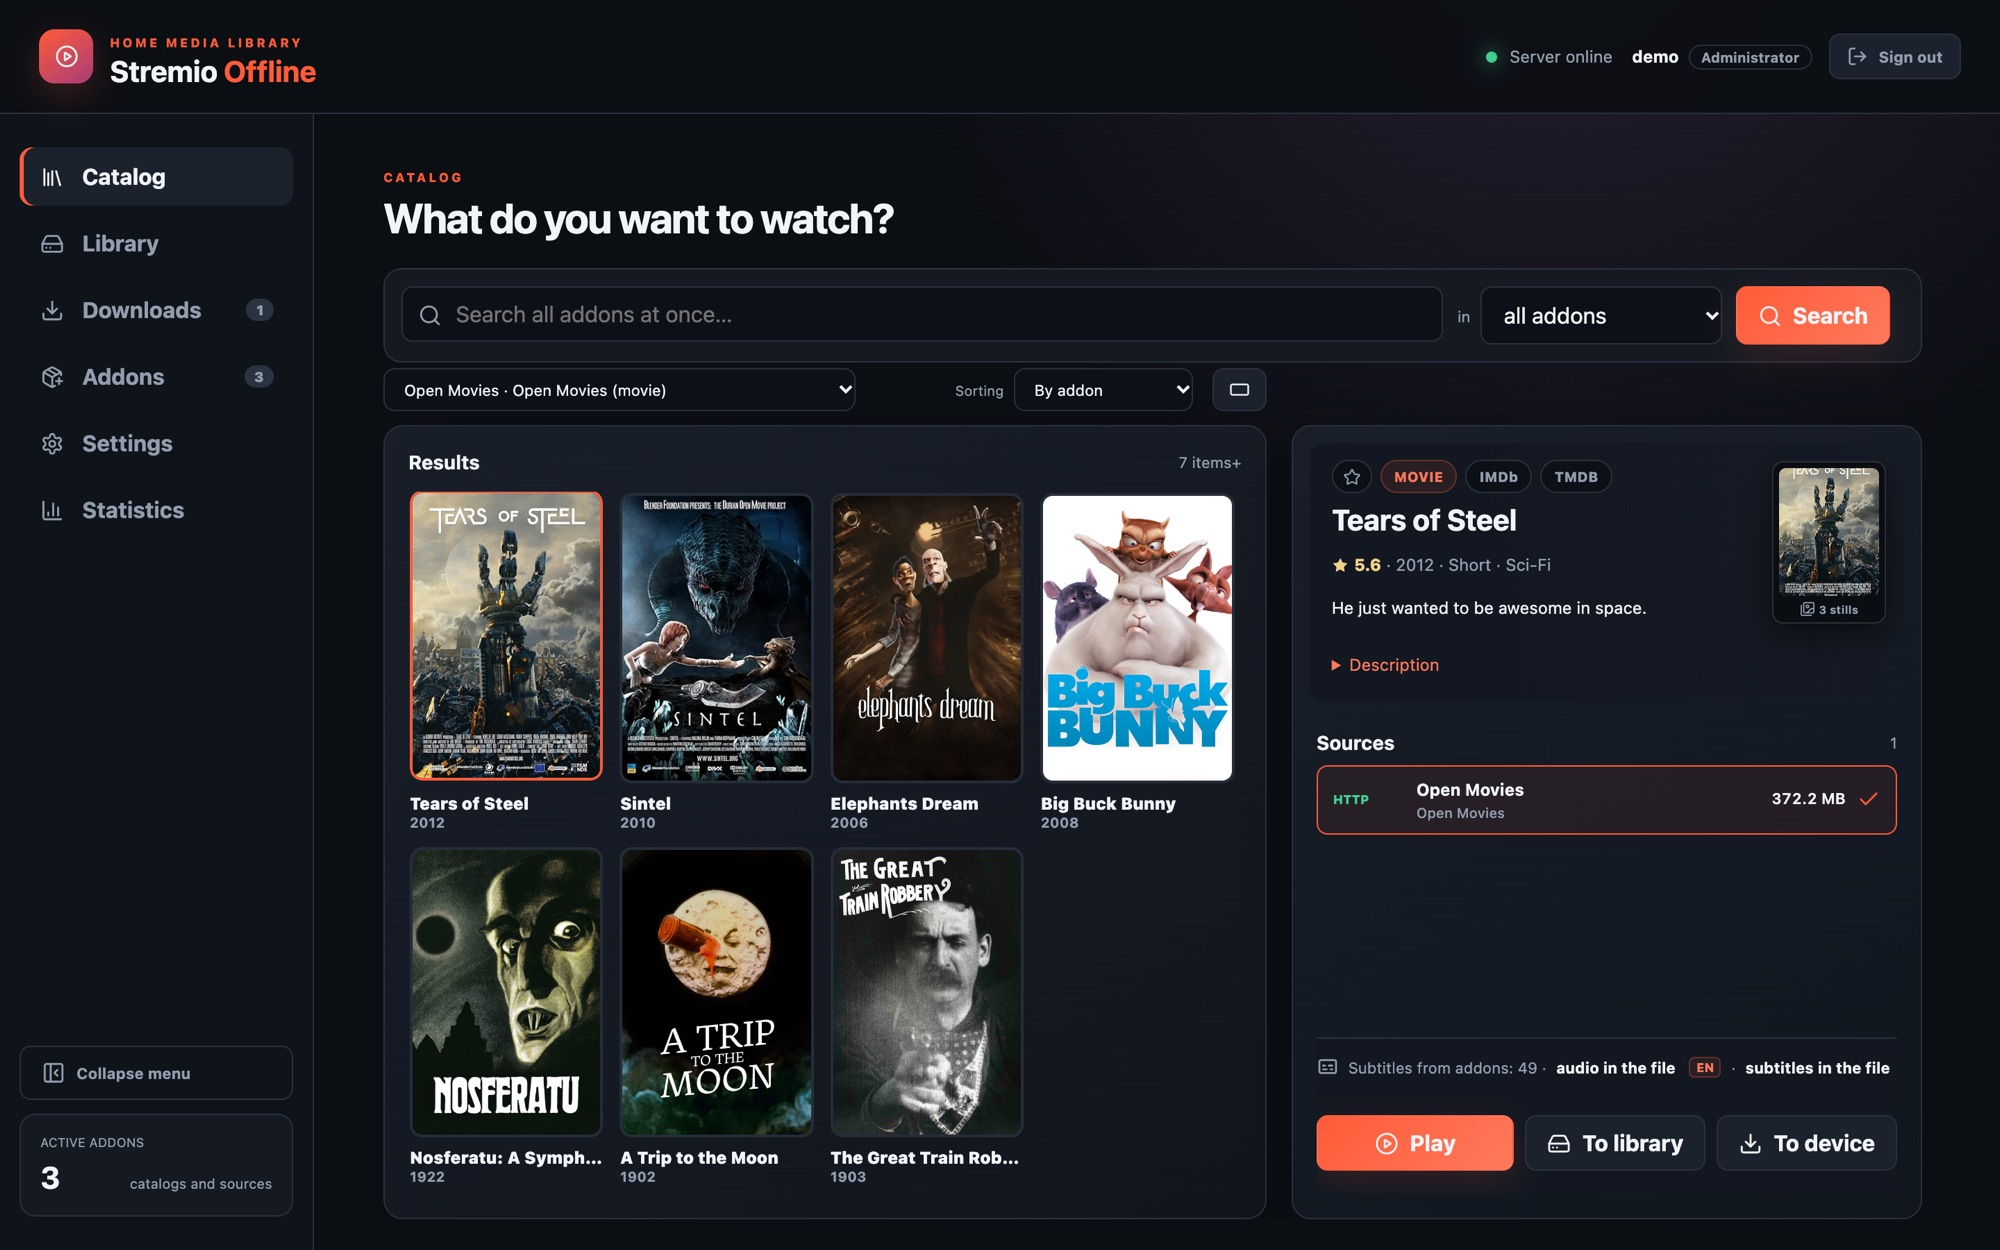
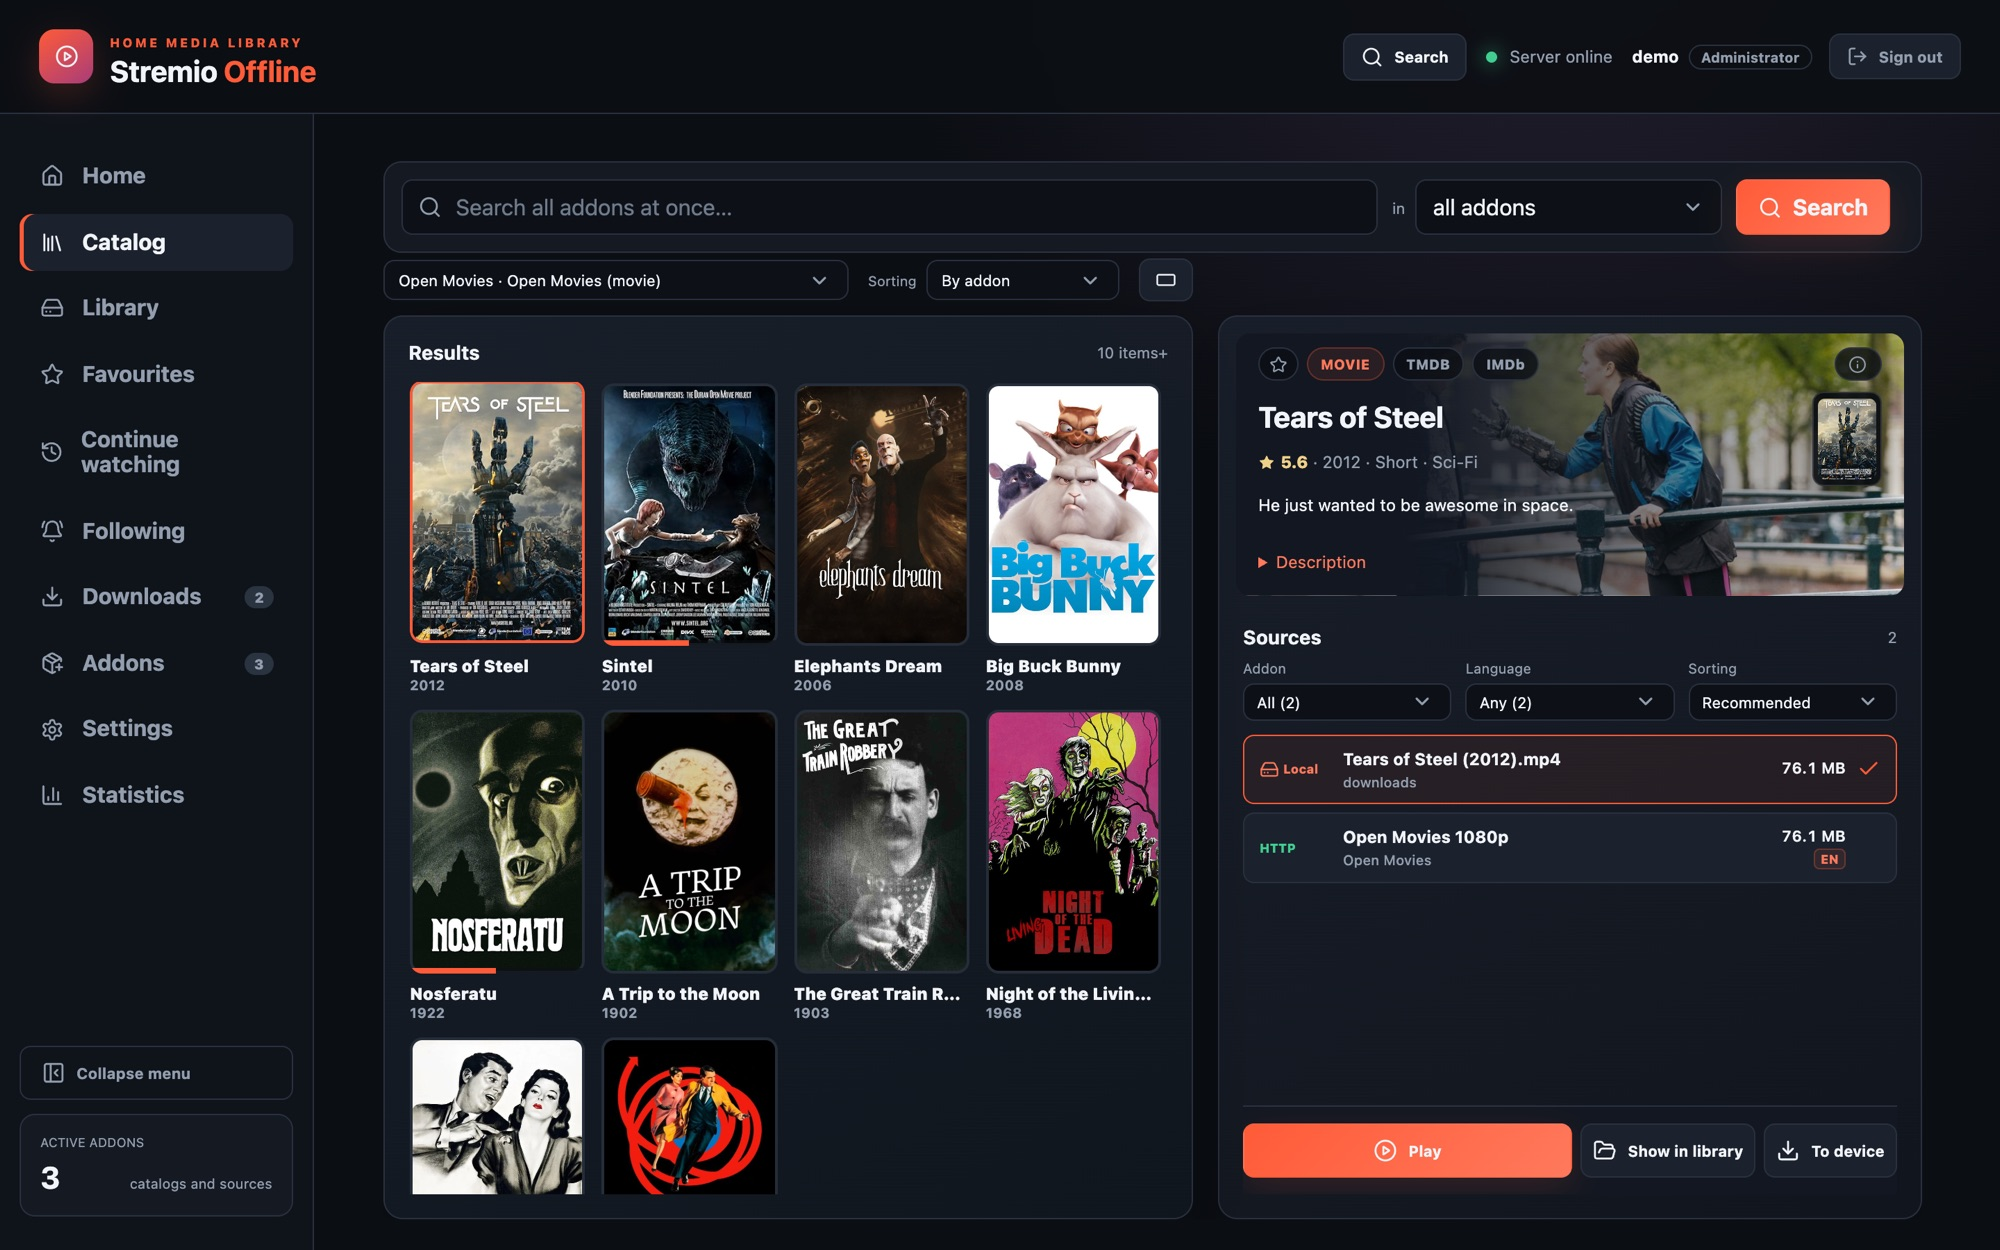
Refresh the README and download docs, and retake the screenshots
The README now names Docker Hub beside GHCR, the Android TV app, the
personal Home page, Search everywhere, download rules, following and the
statistics. docs/downloads.md describes download rules instead of the
season dialog they replaced, and the Docker Hub overview lists the same
features. The screenshots are retaken from a clean 0.5.201 instance in
English with Blender open movies (CC BY), Pioneer One (CC BY-SA) and
public-domain films; Home and the follow dialog are new.

diff --git a/README.md b/README.md
@@ -2,22 +2,30 @@
 
 [![CI](https://github.com/NickRabit/stremio-offline/actions/workflows/ci.yml/badge.svg)](https://github.com/NickRabit/stremio-offline/actions/workflows/ci.yml)
 [![License: MIT](https://img.shields.io/badge/license-MIT-blue.svg)](LICENSE)
-[![Image](https://img.shields.io/badge/ghcr.io-stremio--offline-2496ed?logo=docker&logoColor=white)](https://github.com/NickRabit/stremio-offline/pkgs/container/stremio-offline)
+[![Docker Hub](https://img.shields.io/badge/docker%20hub-nickrabit%2Fstremio--offline-2496ed?logo=docker&logoColor=white)](https://hub.docker.com/r/nickrabit/stremio-offline)
+[![GHCR](https://img.shields.io/badge/ghcr.io-stremio--offline-2496ed?logo=github&logoColor=white)](https://github.com/NickRabit/stremio-offline/pkgs/container/stremio-offline)
 
 Self-hosted web client for standard [Stremio](https://www.stremio.com/) addons.
 It reads catalog and stream manifests, aggregates streams and subtitles, plays
 HTTP sources through a compatible HLS layer, and saves direct streams into a
 persistent download queue and a local library.
 
-It runs in four ways:
+The server runs in four ways:
 
 - **Docker**, the primary target — a host that is always on, a Synology NAS in
-  particular — used from a browser on any device on the home network.
+  particular — used from a browser on any device on the home network. The image
+  is on [Docker Hub](https://hub.docker.com/r/nickrabit/stremio-offline) and
+  [GHCR](https://github.com/NickRabit/stremio-offline/pkgs/container/stremio-offline)
+  for amd64 and arm64.
 - **A macOS app** for Apple Silicon, which runs the server on the Mac or opens
   one elsewhere, such as the NAS.
 - **A Windows app** for Windows 10 and 11 (x64), which does the same.
 - **A Linux app** for x64 PCs with glibc 2.35 or newer, distributed as a
   `.deb` and an AppImage, with the same local and remote server modes.
+
+On a television, **an Android TV app** connects to any of them and is driven
+with the remote. Phones and tablets use the browser, which can add the app to
+the Home Screen.
 
 > Unofficial. Not affiliated with Stremio or Smart Code Ltd.
 > The app provides, hosts and searches no content: everything it shows comes
@@ -28,7 +36,13 @@ It runs in four ways:
 
 ## What it does
 
+- **A Home page of your own**: continue watching, new episodes of what you
+  follow, your libraries and rows from addon catalogs. Each account chooses
+  which rows show and in what order.
 - **Catalogs and metadata** from any standard addon manifest, Cinemeta included.
+- **Search everywhere**: one search across addon catalogs, local libraries and
+  Jellyfin or Emby servers, narrowed to films or series, in the browser and on
+  the TV.
 - **Playback that costs what it has to.** Direct play when the browser can
   handle the file, remux when only the container is wrong, a real transcode only
   as a last resort — in hardware when there is some: Intel QuickSync on a NAS,
@@ -40,6 +54,14 @@ It runs in four ways:
   Range, and pauses itself when the disk fills up. Each addon has a rule for
   where its files go, and a single download can be sent to another library or
   folder.
+- **Download rules** for seasons, whole shows and follows: Balanced, Best
+  quality, Smaller files or My language only, which administrators can adjust
+  or copy. The source is chosen when an episode's turn comes, by resolution,
+  size, audio and subtitle language.
+- **Following series and films**: new episodes appear in the Library and on a
+  calendar you can subscribe to, and can download automatically — new
+  releases only, from a chosen episode, or a few episodes ahead of where you
+  are watching.
 - **Saving to a device**: a file goes straight to the phone or laptop you are
   using, through the server, and **Downloads** shows the transfer while it runs.
 - **A local library** of what you downloaded, with artwork, continue watching,
@@ -58,8 +80,12 @@ It runs in four ways:
 - **Accounts, created on first run.** No default password, no anonymous access.
   An administrator adds one per person and decides which libraries and addons
   each of them sees.
-- **Diagnostics in the UI** — grouped errors, a filterable log, and what
-  playback actually failed on.
+- **An Android TV app** for the same server: Home, Catalog, Library, Search
+  everywhere, playback with audio and subtitle choice, and season downloads
+  by download rules, all with the remote.
+- **Statistics and diagnostics** for administrators — traffic per day, what is
+  playing now, recent activity per user, grouped errors, a filterable log, and
+  what playback actually failed on.
 
 Personalized addon URLs that already resolve through a debrid service work.
 A raw torrent needs a Real-Debrid API token in Settings; the app never runs a
@@ -67,19 +93,24 @@ torrent engine. See [Addons and downloads](docs/downloads.md#real-debrid-and-oth
 
 ## Screenshots
 
-| Library | Download queue |
+| Home | Library |
 | --- | --- |
-| ![Downloaded films in the library, with posters and descriptions](docs/images/library.jpg) | ![One film downloading, another waiting in the queue](docs/images/downloads.jpg) |
+| ![Home with continue watching, a row from the library and an addon catalog](docs/images/home.jpg) | ![Downloaded films in the library, with posters and descriptions](docs/images/library.jpg) |
 
-![The player with subtitles from an addon](docs/images/player.jpg)
+| Following with automatic downloads | Download queue |
+| --- | --- |
+| ![Following a series: start a few episodes ahead and pick download rules](docs/images/follow.jpg) | ![One film downloading, another waiting in the queue](docs/images/downloads.jpg) |
+
+![The player with subtitles](docs/images/player.jpg)
 
 <p>
-  <img src="docs/images/mobile-catalog.jpg" alt="The catalog on a phone" width="260">
+  <img src="docs/images/mobile-home.jpg" alt="Home on a phone" width="260">
   <img src="docs/images/mobile-library.jpg" alt="The library on a phone" width="260">
 </p>
 
-The films shown are Blender Foundation open movies (CC BY), served by a small
-local test addon, and public-domain classics. The app ships with no content.
+The films and the series shown are Blender Foundation open movies (CC BY),
+*Pioneer One* (CC BY-SA) and public-domain classics, served by a small local
+test addon from the Internet Archive. The app ships with no content.
 
 ## Quick start
 
@@ -104,6 +135,12 @@ To run a prebuilt image instead of building locally:
 docker compose -f compose.pull.yml pull
 docker compose -f compose.pull.yml up -d
 ```
+
+The same image is published as
+[`nickrabit/stremio-offline`](https://hub.docker.com/r/nickrabit/stremio-offline)
+on Docker Hub, whose page has a self-contained Compose file for a fresh
+directory. Both registries carry `latest`, every release version and every
+commit.
 
 ### On a Synology NAS
 
@@ -181,7 +218,7 @@ on demand, so a catalogue the provider adds later still shows up. See
 | [Phones and tablets](docs/mobile.md) | iPhone, iPad and Android, Home Screen setup, server access |
 | [Playback](docs/playback.md) | Direct play vs. remux vs. transcode, seeking, tracks, subtitles |
 | [Trailers](docs/trailers.md) | Where the trailer comes from, and how secure mode plays it |
-| [Addons and downloads](docs/downloads.md) | Debrid addons, the queue, save rules, saving to a device, config backup |
+| [Addons and downloads](docs/downloads.md) | Debrid addons, the queue, download rules, following series and films, save rules, saving to a device, config backup |
 | [Backing up and restoring](docs/backup.md) | What is in the data folder, what to copy, how to restore |
 | [Libraries](docs/libraries.md) | Several roots, types, artwork per library, splitting the download folder |
 | [Library identification](docs/library-metadata.md) | How folders become titles, the scan, suggestions and Identify |
@@ -193,7 +230,7 @@ on demand, so a catalogue the provider adds later still shows up. See
 | [Installing the Windows app](docs/install-windows.md) | SmartScreen, the notification area, firewall, updating and removing it |
 | [Installing the Linux app](docs/install-linux.md) | .deb or AppImage, VA-API/NVENC or the system's FFmpeg, firewall, updating and removing it |
 | [Installing the Android TV app](docs/install-android-tv.md) | The APK, Obtainium updates, the Downloader app, adb, updating over an older install |
-| [Building and releasing](docs/building.md) | Local builds, GHCR, version tags, macOS, Windows and Linux hosts |
+| [Building and releasing](docs/building.md) | Local builds, GHCR and Docker Hub, version tags, macOS, Windows and Linux hosts |
 | [Licensing](docs/licensing.md) | What each distribution contains, FFmpeg's licence and source |
 | [Testing](docs/testing.md) | What belongs in which test layer, and how to run each |
 | [Roadmap](docs/roadmap.md) | What is done, what is next, what is out of scope |

diff --git a/docs/downloads.md b/docs/downloads.md
@@ -139,41 +139,64 @@ Three things are easy to confuse with a state but are not:
 
 ### Seasons and whole shows
 
-Downloading a season or a whole show opens a selection dialog. Choose one or
-more stream addons and arrange them in priority order, then select the required
-audio language and an optional fallback. Subtitles can be disabled, preferred,
-or required, with their own language and fallback.
+**To library** on a single source saves exactly that file. Downloading a season
+or a whole show, or following a title with automatic downloads, does not pick
+files up front: it asks which **download rules** to use and where to save the
+files, and each episode enters the queue as a small job that carries those rules.
+Only when an episode reaches the front does the queue ask the addons for current
+sources and choose one.
 
-Each episode enters the queue as a small rule rather than a preselected URL.
-Only when that episode reaches the front does the queue ask the selected addons
-for current streams and inspect the real audio and text-subtitle tracks. The
-dialog can either respect the selected addon order or ignore that order and
-choose the largest matching file across all enabled sources. Either way, a
-source whose own name or title already names the wanted audio language is
-checked before one that does not -- ffprobe is the only way to learn a
-source's real tracks, and that round trip is slow, so a likely match is worth
-trying first even under "largest". A primary-language match anywhere in the
-chosen sources wins over a fallback match; addon order (or, under "largest",
-size) decides between otherwise equivalent matches. Unknown or missing audio
-metadata is not treated as a match, and a source shorter than a minute is
-skipped outright once its duration is known -- almost always a sample, a
-trailer, or a fake.
+### Download rules
 
-Optional subtitles never displace a source with the preferred audio. When only
-fallback audio is available, a matching embedded subtitle track is preferred
-over a source without subtitles. Required
-subtitles make the queue try another source when neither a usable embedded
-track nor an external subtitle from an addon is available. External SRT and
-WebVTT subtitles are saved as a language-tagged `.vtt` sidecar next to the
-video. The queue shows the resolved languages and whether a fallback was used.
+Download rules describe which source counts as a good one. Four are ready on a
+new server:
 
-A dead link -- an expired debrid cache entry, a torrent with no seeders -- is
-ruled out with a one-byte range request before ffprobe is ever started, and a
-source ffprobe can reach but not open (refused, timed out, a 4xx/5xx) skips
-the slower deep probe instead of retrying it. Resolving one episode also gives
-up after checking 15 candidates rather than working through an addon's whole
-list, so an obscure title with mostly dead or wrong-language sources still
-fails in bounded time instead of stalling the queue.
+| Rules | Resolution | Audio | Size limit |
+| --- | --- | --- | --- |
+| **Balanced** | 720p–1080p | prefer my language | ~4 GB per episode, ~15 GB per film |
+| **Best quality** | 1080p–2160p | prefer my language | none |
+| **Smaller files** | 480p–720p | prefer my language | ~1.5 GB per episode, ~5 GB per film |
+| **My language only** | 720p–1080p | my language only | ~4 GB per episode, ~15 GB per film |
+
+"My language" is the audio language in each person's own settings, so one set of
+rules serves everyone. All four skip cinema copies (CAM, TS) and use the addons
+each person may use, in that person's addon order.
+
+Administrators adjust, duplicate, add and delete rules in **Settings → Download
+rules**. One set of rules holds:
+
+- **Sources** -- all allowed addons or only selected ones, each person's addon
+  order or a fixed one, and whether torrents may go through Real-Debrid.
+- **Quality and size** -- a resolution range and an approximate size range per
+  episode and per film. Resolution is compared as a class, so a 1920x800 film
+  counts as 1080p. Size is judged on the size an addon lists: a known size
+  outside the range rules the source out, an unknown size does not.
+- **Language** -- audio in any language, preferred or only, either "my
+  language" or a chosen one, with an optional fallback language; subtitles off,
+  when available or required, in "my language" or a chosen one.
+- **What to prefer** -- the order in which the remaining sources are compared:
+  my language, higher or lower resolution, smaller or larger file, addon order.
+
+A change applies to downloads and follows saved afterwards; jobs already in the
+queue keep the rules they were admitted with. Everyone picks from the rules the
+administrator offers, and the download dialog can remember the choice as the
+default for manual downloads or for follows.
+
+When an episode's turn comes, sources that break the rules are dropped and the
+rest are ranked by the preference order. Only probing a file with ffprobe tells
+its real audio and subtitle tracks, and that is slow, so a source whose name
+already promises the wanted language is checked first. A dead link -- an
+expired debrid cache entry, a torrent with no seeders -- is ruled out with a
+one-byte range request before ffprobe starts, and resolving one episode stops
+after inspecting 15 candidates, so an obscure title with mostly dead or
+wrong-language sources fails in bounded time instead of stalling the queue.
+
+Unknown or missing audio metadata never counts as a language match. A fallback
+language is used only when no source has the preferred one. Required subtitles
+make the queue try another source when neither an embedded track nor an
+external subtitle from an addon is available. External SRT and WebVTT subtitles
+are saved as a language-tagged `.vtt` sidecar next to the video. The queue shows
+the resolved languages and whether a fallback was used.
 
 ### Following series and films
 
@@ -205,19 +228,19 @@ A film's date is its **digital release** (when sources usually appear); a film
 only in cinemas waits until one is announced.
 
 The follow dialog pauses a title, checks it now (once a minute at most) and
-switches **automatic downloads** on or off. For a series the setup is the
-season dialog above, with addon priority as the default and one more choice:
-start with episodes released from now on, or from a chosen episode, with a
-count of what would download straight away. The library is pinned when you
-save, so a later change to an addon's rule does not move the title.
+switches **automatic downloads** on or off. Automatic downloads use
+[download rules](#download-rules) like a season download, plus a choice of where
+to start, with a count of what would download straight away. The library is
+pinned when you save, so a later change to an addon's storage rule does not
+move the title.
 
 - **Start**: episodes released from now on, from a chosen episode, or **N
   episodes ahead of where you are watching** -- the next N episodes after the
   one you last finished are kept downloaded (older seasons included) and the
   window slides as you watch.
-- **Wait for the preferred audio**: for up to 3, 7 or 14 days after release
-  only a source with the preferred audio is taken; when the window closes the
-  episode is tried again with the fallback language too.
+- **Wait for audio in my language** (rules that prefer a language): for up to
+  1, 2, 3, 7 or 14 days after release only a source with that audio is taken;
+  when the window closes the episode is tried again with the rest of the rules.
 - **After watching** (administrators only, off by default): delete the files
   the follow downloaded 1, 7 or 30 days after you watched past them. It never
   deletes anything else, waits while a file is playing, goes through the same
@@ -229,7 +252,7 @@ save, so a later change to an addon's rule does not move the title.
   and it is not tried before its release date.
 - Removing a queued or running automatic job skips that episode for good;
   **Retry** brings it back. Clearing a *failed* job only tidies the queue: the
-  episode keeps waiting. Saving new rules retries waiting episodes at once.
+  episode keeps waiting. Saving the follow again retries waiting episodes at once.
   Deleting a downloaded file does not download it again, and clearing the
   queue history keeps the record.
 - An episode with no release date, or with providers that disagree about it, is

diff --git a/docs/docker-hub.md b/docs/docker-hub.md
@@ -21,6 +21,12 @@ right to use.
   VAAPI on compatible Linux hosts.
 - Audio tracks, embedded subtitles and subtitle addons.
 - Persistent downloads with resume support, disk-space handling and save rules.
+- Download rules for seasons and whole shows: resolution, size, audio and
+  subtitle language, chosen when each episode's turn comes.
+- Following series and films, with a release calendar and optional automatic
+  downloads.
+- A personal Home page and one search across addons, libraries and media
+  servers.
 - Multiple local libraries, metadata, artwork, favorites and continue watching.
 - Jellyfin and Emby libraries with local favorites and watch history.
 - Administrator and user accounts with per-user library and addon access.
